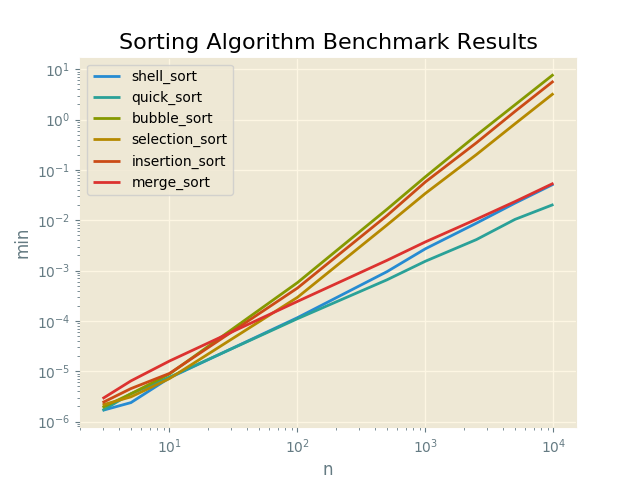
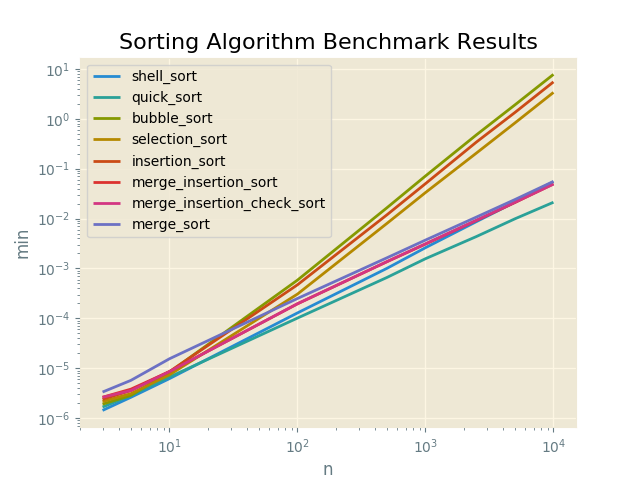
Small optimisations to merge sorts, refactored some benchmarks

diff --git a/algorithms/sort/merge_sort.py b/algorithms/sort/merge_sort.py
@@ -1,10 +1,46 @@
+from algorithms.sort.insertion_sort import insertion_sort
+
+
 def merge_sort(arr):
-    if len(arr) <= 1:
+    n = len(arr)
+    if n <= 1:
+        return arr
+    mid = n // 2
+
+    return merge(merge_sort(arr[:mid]), merge_sort(arr[mid:]))
+
+
+def merge_insertion_sort(arr):
+    n = len(arr)
+
+    if n <= 1:
+        return arr
+
+    if n < 15:
+        insertion_sort(arr)
         return arr
 
     mid = len(arr) // 2
 
-    return merge(merge_sort(arr[:mid]), merge_sort(arr[mid:]))
+    return merge(merge_insertion_sort(arr[:mid]), merge_insertion_sort(arr[mid:]))
+
+
+def merge_insertion_check_sort(arr):
+    n = len(arr)
+
+    if n <= 1:
+        return arr
+
+    if n <= 15:
+        insertion_sort(arr)
+        return arr
+
+    mid = len(arr) // 2
+
+    left = merge_insertion_sort(arr[:mid])
+    right = merge_insertion_sort(arr[mid:])
+
+    return merge(left, right) if left[-1] > right[0] else left + right
 
 
 def merge(left, right):
@@ -18,9 +54,8 @@ def merge(left, right):
 
 
 if __name__ == '__main__':
-    from script_benchmark_tools import Script
+    from script_benchmark_tools import Script, run_scripts_with_n_sized_list
     from script_benchmark_tools.benchmark_report import generate_benchmark_report
-    from benchmarks.run_scripts.run_scripts_with_n_random_list import run_scripts_with_n_random_list
 
     filename = 'merge_sort_algorithm'
 
@@ -28,10 +63,12 @@ if __name__ == '__main__':
         'title': 'Merge Sort Benchmark Results',
         'proof_data': [6, 3, 1, 2, 5, 4],
         'filename': filename,
-        'n_steps': [3, 5, 10, 100, 500, 1000],
-        'benchmark': run_scripts_with_n_random_list,
+        'n_steps': [3, 5, 10, 100, 500, 1000, 10000, 25000],
+        'benchmark': run_scripts_with_n_sized_list,
         'scripts': (
             Script(merge_sort, 'sarcoma'),
+            Script(merge_insertion_sort, 'sarcoma'),
+            Script(merge_insertion_check_sort, 'sarcoma'),
         ),
         'use_ansi': True
     }

diff --git a/benchmarks/sorts/benchmark_sorts.py b/benchmarks/sorts/benchmark_sorts.py
@@ -3,7 +3,7 @@ from script_benchmark_tools.script import Script
 
 from algorithms.sort.bubble_sort import bubble_sort
 from algorithms.sort.insertion_sort import insertion_sort
-from algorithms.sort.merge_sort import merge_sort
+from algorithms.sort.merge_sort import merge_sort, merge_insertion_sort, merge_insertion_check_sort
 from algorithms.sort.quick_sort import quick_sort
 from algorithms.sort.selection_sort import selection_sort
 from algorithms.sort.shell_sort import shell_sort
@@ -16,8 +16,8 @@ if __name__ == '__main__':
     benchmark_data = {
         'title': 'Sorting Algorithm Benchmark Results',
         'proof_data': [6, 3, 1, 2, 5, 4],
-        'filename': 'sorting_algorithm_quick',
-        'n_steps': n_steps_quick,
+        'filename': 'sorting_algorithm',
+        'n_steps': n_steps_full,
         'benchmark': run_scripts_with_n_random_list,
         'scripts': (
             Script(bubble_sort, 'sarcoma'),
@@ -25,6 +25,8 @@ if __name__ == '__main__':
             Script(insertion_sort, 'sarcoma'),
             Script(shell_sort, 'sarcoma'),
             Script(merge_sort, 'sarcoma'),
+            Script(merge_insertion_sort, 'sarcoma'),
+            Script(merge_insertion_check_sort, 'sarcoma'),
             Script(quick_sort, 'sarcoma'),
         )
     }

diff --git a/algorithms/sort/insertion_sort.py b/algorithms/sort/insertion_sort.py
@@ -1,5 +1,6 @@
 def insertion_sort(arr):
-    for i in range(len(arr)):
+    n = len(arr)
+    for i in range(n):
         for j in reversed(range(i + 1)):
             if j is 0 or arr[j-1] < arr[j]:
                 break

diff --git a/benchmarks/sorts/results/sorting_algorithm.md b/benchmarks/sorts/results/sorting_algorithm.md
@@ -3,14 +3,16 @@
 Proofs
 ------
 
-|  Input               |  Output              |  Script          |  User     |
-|----------------------|----------------------|------------------|-----------|
-|  [6, 3, 1, 2, 5, 4]  |  [1, 2, 3, 4, 5, 6]  |  bubble_sort     |  sarcoma  |
-|  [6, 3, 1, 2, 5, 4]  |  [1, 2, 3, 4, 5, 6]  |  selection_sort  |  sarcoma  |
-|  [6, 3, 1, 2, 5, 4]  |  [1, 2, 3, 4, 5, 6]  |  insertion_sort  |  sarcoma  |
-|  [6, 3, 1, 2, 5, 4]  |  [1, 2, 3, 4, 5, 6]  |  shell_sort      |  sarcoma  |
-|  [6, 3, 1, 2, 5, 4]  |  [1, 2, 3, 4, 5, 6]  |  merge_sort      |  sarcoma  |
-|  [6, 3, 1, 2, 5, 4]  |  [1, 2, 3, 4, 5, 6]  |  quick_sort      |  sarcoma  |
+|  Input               |  Output              |  Script                      |  User     |
+|----------------------|----------------------|------------------------------|-----------|
+|  [6, 3, 1, 2, 5, 4]  |  [1, 2, 3, 4, 5, 6]  |  bubble_sort                 |  sarcoma  |
+|  [6, 3, 1, 2, 5, 4]  |  [1, 2, 3, 4, 5, 6]  |  selection_sort              |  sarcoma  |
+|  [6, 3, 1, 2, 5, 4]  |  [1, 2, 3, 4, 5, 6]  |  insertion_sort              |  sarcoma  |
+|  [6, 3, 1, 2, 5, 4]  |  [1, 2, 3, 4, 5, 6]  |  shell_sort                  |  sarcoma  |
+|  [6, 3, 1, 2, 5, 4]  |  [1, 2, 3, 4, 5, 6]  |  merge_sort                  |  sarcoma  |
+|  [6, 3, 1, 2, 5, 4]  |  [1, 2, 3, 4, 5, 6]  |  merge_insertion_sort        |  sarcoma  |
+|  [6, 3, 1, 2, 5, 4]  |  [1, 2, 3, 4, 5, 6]  |  merge_insertion_check_sort  |  sarcoma  |
+|  [6, 3, 1, 2, 5, 4]  |  [1, 2, 3, 4, 5, 6]  |  quick_sort                  |  sarcoma  |
 
 Plots
 -----
@@ -23,108 +25,126 @@ Sorting Algorithm Benchmark Results
 N = 3
 ------
 
-|  min          |  avg          |  max          |  func            |  name     |
-|---------------|---------------|---------------|------------------|-----------|
-|  0.000001669  |  0.000001938  |  0.000005007  |  shell_sort      |  sarcoma  |
-|  0.000001669  |  0.000002413  |  0.000006914  |  quick_sort      |  sarcoma  |
-|  0.000001907  |  0.000002153  |  0.000005245  |  bubble_sort     |  sarcoma  |
-|  0.000002146  |  0.000002425  |  0.000004292  |  selection_sort  |  sarcoma  |
-|  0.000002384  |  0.000002728  |  0.000005245  |  insertion_sort  |  sarcoma  |
-|  0.000002861  |  0.000003297  |  0.000006437  |  merge_sort      |  sarcoma  |
+|  min          |  avg          |  max          |  func                        |  name     |
+|---------------|---------------|---------------|------------------------------|-----------|
+|  0.000001431  |  0.000001957  |  0.000014782  |  shell_sort                  |  sarcoma  |
+|  0.000001669  |  0.000002110  |  0.000009775  |  quick_sort                  |  sarcoma  |
+|  0.000001907  |  0.000002182  |  0.000004530  |  bubble_sort                 |  sarcoma  |
+|  0.000002146  |  0.000002434  |  0.000004053  |  selection_sort              |  sarcoma  |
+|  0.000002384  |  0.000002854  |  0.000004530  |  insertion_sort              |  sarcoma  |
+|  0.000002623  |  0.000003035  |  0.000004292  |  merge_insertion_sort        |  sarcoma  |
+|  0.000002623  |  0.000003033  |  0.000003338  |  merge_insertion_check_sort  |  sarcoma  |
+|  0.000003338  |  0.000003691  |  0.000006914  |  merge_sort                  |  sarcoma  |
 
 N = 5
 ------
 
-|  min          |  avg          |  max          |  func            |  name     |
-|---------------|---------------|---------------|------------------|-----------|
-|  0.000002384  |  0.000002911  |  0.000007153  |  shell_sort      |  sarcoma  |
-|  0.000003099  |  0.000003572  |  0.000006676  |  selection_sort  |  sarcoma  |
-|  0.000003576  |  0.000003915  |  0.000006914  |  bubble_sort     |  sarcoma  |
-|  0.000003576  |  0.000004017  |  0.000007391  |  quick_sort      |  sarcoma  |
-|  0.000004530  |  0.000004721  |  0.000007629  |  insertion_sort  |  sarcoma  |
-|  0.000006437  |  0.000007055  |  0.000013113  |  merge_sort      |  sarcoma  |
+|  min          |  avg          |  max          |  func                        |  name     |
+|---------------|---------------|---------------|------------------------------|-----------|
+|  0.000002623  |  0.000003018  |  0.000005722  |  shell_sort                  |  sarcoma  |
+|  0.000002861  |  0.000003366  |  0.000005484  |  bubble_sort                 |  sarcoma  |
+|  0.000002861  |  0.000003273  |  0.000006199  |  quick_sort                  |  sarcoma  |
+|  0.000003099  |  0.000003760  |  0.000010490  |  selection_sort              |  sarcoma  |
+|  0.000003576  |  0.000003743  |  0.000005484  |  insertion_sort              |  sarcoma  |
+|  0.000003576  |  0.000004015  |  0.000006914  |  merge_insertion_check_sort  |  sarcoma  |
+|  0.000003815  |  0.000004086  |  0.000016928  |  merge_insertion_sort        |  sarcoma  |
+|  0.000005722  |  0.000006306  |  0.000010490  |  merge_sort                  |  sarcoma  |
 
 N = 10
 ------
 
-|  min          |  avg          |  max          |  func            |  name     |
-|---------------|---------------|---------------|------------------|-----------|
-|  0.000007153  |  0.000007412  |  0.000009298  |  selection_sort  |  sarcoma  |
-|  0.000007391  |  0.000007901  |  0.000011921  |  shell_sort      |  sarcoma  |
-|  0.000007629  |  0.000008340  |  0.000016212  |  quick_sort      |  sarcoma  |
-|  0.000008821  |  0.000009184  |  0.000017405  |  bubble_sort     |  sarcoma  |
-|  0.000009060  |  0.000009651  |  0.000015974  |  insertion_sort  |  sarcoma  |
-|  0.000015974  |  0.000016654  |  0.000025988  |  merge_sort      |  sarcoma  |
+|  min          |  avg          |  max          |  func                        |  name     |
+|---------------|---------------|---------------|------------------------------|-----------|
+|  0.000006199  |  0.000006495  |  0.000009537  |  shell_sort                  |  sarcoma  |
+|  0.000006676  |  0.000007224  |  0.000013590  |  quick_sort                  |  sarcoma  |
+|  0.000007391  |  0.000007570  |  0.000010967  |  selection_sort              |  sarcoma  |
+|  0.000008345  |  0.000009017  |  0.000021935  |  bubble_sort                 |  sarcoma  |
+|  0.000008583  |  0.000008938  |  0.000010967  |  insertion_sort              |  sarcoma  |
+|  0.000008583  |  0.000009367  |  0.000021458  |  merge_insertion_sort        |  sarcoma  |
+|  0.000008583  |  0.000009191  |  0.000017881  |  merge_insertion_check_sort  |  sarcoma  |
+|  0.000015497  |  0.000016561  |  0.000035048  |  merge_sort                  |  sarcoma  |
 
 N = 100
 ------
 
-|  min          |  avg          |  max          |  func            |  name     |
-|---------------|---------------|---------------|------------------|-----------|
-|  0.000110865  |  0.000119431  |  0.000174761  |  quick_sort      |  sarcoma  |
-|  0.000116110  |  0.000125337  |  0.000185013  |  shell_sort      |  sarcoma  |
-|  0.000244379  |  0.000261383  |  0.000304937  |  merge_sort      |  sarcoma  |
-|  0.000294447  |  0.000319088  |  0.000389814  |  selection_sort  |  sarcoma  |
-|  0.000450373  |  0.000485060  |  0.000576258  |  insertion_sort  |  sarcoma  |
-|  0.000577450  |  0.000634532  |  0.000865459  |  bubble_sort     |  sarcoma  |
+|  min          |  avg          |  max          |  func                        |  name     |
+|---------------|---------------|---------------|------------------------------|-----------|
+|  0.000101328  |  0.000107861  |  0.000167131  |  quick_sort                  |  sarcoma  |
+|  0.000128508  |  0.000140774  |  0.000406265  |  shell_sort                  |  sarcoma  |
+|  0.000195503  |  0.000212297  |  0.000286102  |  merge_insertion_sort        |  sarcoma  |
+|  0.000196457  |  0.000212429  |  0.000303745  |  merge_insertion_check_sort  |  sarcoma  |
+|  0.000250101  |  0.000272260  |  0.000360489  |  merge_sort                  |  sarcoma  |
+|  0.000306368  |  0.000329299  |  0.000427246  |  selection_sort              |  sarcoma  |
+|  0.000470400  |  0.000508261  |  0.000666857  |  insertion_sort              |  sarcoma  |
+|  0.000583649  |  0.000645602  |  0.000810146  |  bubble_sort                 |  sarcoma  |
 
 N = 500
 ------
 
-|  min          |  avg          |  max          |  func            |  name     |
-|---------------|---------------|---------------|------------------|-----------|
-|  0.000655651  |  0.000711875  |  0.001155615  |  quick_sort      |  sarcoma  |
-|  0.000952005  |  0.001056120  |  0.001532793  |  shell_sort      |  sarcoma  |
-|  0.001597404  |  0.001734354  |  0.002096891  |  merge_sort      |  sarcoma  |
-|  0.008034945  |  0.008621147  |  0.012875319  |  selection_sort  |  sarcoma  |
-|  0.012389183  |  0.013032563  |  0.015597582  |  insertion_sort  |  sarcoma  |
-|  0.016521931  |  0.018207552  |  0.034789562  |  bubble_sort     |  sarcoma  |
+|  min          |  avg          |  max          |  func                        |  name     |
+|---------------|---------------|---------------|------------------------------|-----------|
+|  0.000659466  |  0.000699079  |  0.000965118  |  quick_sort                  |  sarcoma  |
+|  0.001005173  |  0.001071198  |  0.001304150  |  shell_sort                  |  sarcoma  |
+|  0.001365423  |  0.001458943  |  0.001746178  |  merge_insertion_sort        |  sarcoma  |
+|  0.001368046  |  0.001457105  |  0.001673222  |  merge_insertion_check_sort  |  sarcoma  |
+|  0.001634121  |  0.001733756  |  0.002005577  |  merge_sort                  |  sarcoma  |
+|  0.007990599  |  0.008281722  |  0.008694410  |  selection_sort              |  sarcoma  |
+|  0.011875153  |  0.012260177  |  0.015305042  |  insertion_sort              |  sarcoma  |
+|  0.016452074  |  0.017170999  |  0.020588636  |  bubble_sort                 |  sarcoma  |
 
 N = 1000
 ------
 
-|  min          |  avg          |  max          |  func            |  name     |
-|---------------|---------------|---------------|------------------|-----------|
-|  0.001538992  |  0.001723533  |  0.003472090  |  quick_sort      |  sarcoma  |
-|  0.002719641  |  0.003092022  |  0.004201889  |  shell_sort      |  sarcoma  |
-|  0.003723145  |  0.004517827  |  0.008661985  |  merge_sort      |  sarcoma  |
-|  0.034315348  |  0.038064208  |  0.055979252  |  selection_sort  |  sarcoma  |
-|  0.057957411  |  0.065215156  |  0.105624676  |  insertion_sort  |  sarcoma  |
-|  0.073320627  |  0.089120779  |  0.157334805  |  bubble_sort     |  sarcoma  |
+|  min          |  avg          |  max          |  func                        |  name     |
+|---------------|---------------|---------------|------------------------------|-----------|
+|  0.001566648  |  0.001646795  |  0.001909256  |  quick_sort                  |  sarcoma  |
+|  0.002605915  |  0.002765696  |  0.003200769  |  shell_sort                  |  sarcoma  |
+|  0.003079653  |  0.003249190  |  0.005274057  |  merge_insertion_sort        |  sarcoma  |
+|  0.003110409  |  0.003246021  |  0.003476143  |  merge_insertion_check_sort  |  sarcoma  |
+|  0.003700972  |  0.003820024  |  0.004132986  |  merge_sort                  |  sarcoma  |
+|  0.033157349  |  0.034010353  |  0.056026697  |  selection_sort              |  sarcoma  |
+|  0.050005436  |  0.052743943  |  0.076886415  |  insertion_sort              |  sarcoma  |
+|  0.071234226  |  0.074239602  |  0.077119112  |  bubble_sort                 |  sarcoma  |
 
 N = 2500
 ------
 
-|  min          |  avg          |  max          |  func            |  name     |
-|---------------|---------------|---------------|------------------|-----------|
-|  0.004133940  |  0.004318357  |  0.004844189  |  quick_sort      |  sarcoma  |
-|  0.008759737  |  0.009724774  |  0.025431395  |  shell_sort      |  sarcoma  |
-|  0.010487080  |  0.011235304  |  0.015406609  |  merge_sort      |  sarcoma  |
-|  0.202010870  |  0.216549718  |  0.276953697  |  selection_sort  |  sarcoma  |
-|  0.346317291  |  0.394608953  |  0.509736776  |  insertion_sort  |  sarcoma  |
-|  0.488311291  |  0.517033122  |  0.629794121  |  bubble_sort     |  sarcoma  |
+|  min          |  avg          |  max          |  func                        |  name     |
+|---------------|---------------|---------------|------------------------------|-----------|
+|  0.004360676  |  0.004576221  |  0.008453608  |  quick_sort                  |  sarcoma  |
+|  0.008671045  |  0.008926916  |  0.009428740  |  shell_sort                  |  sarcoma  |
+|  0.009140491  |  0.009413464  |  0.009785414  |  merge_insertion_sort        |  sarcoma  |
+|  0.009260416  |  0.009513001  |  0.009766102  |  merge_insertion_check_sort  |  sarcoma  |
+|  0.010702372  |  0.010954413  |  0.013475418  |  merge_sort                  |  sarcoma  |
+|  0.205119610  |  0.209462106  |  0.225755930  |  selection_sort              |  sarcoma  |
+|  0.340801001  |  0.356897752  |  0.372287750  |  insertion_sort              |  sarcoma  |
+|  0.475185633  |  0.499745891  |  0.514403343  |  bubble_sort                 |  sarcoma  |
 
 N = 5000
 ------
 
-|  min          |  avg          |  max          |  func            |  name     |
-|---------------|---------------|---------------|------------------|-----------|
-|  0.010404110  |  0.010700243  |  0.011606455  |  quick_sort      |  sarcoma  |
-|  0.021901369  |  0.022791302  |  0.023995876  |  shell_sort      |  sarcoma  |
-|  0.023476839  |  0.023922219  |  0.027111769  |  merge_sort      |  sarcoma  |
-|  0.824283838  |  0.920212436  |  1.236751556  |  selection_sort  |  sarcoma  |
-|  1.451464653  |  1.645791409  |  3.186770201  |  insertion_sort  |  sarcoma  |
-|  1.964093685  |  2.257820637  |  3.027920008  |  bubble_sort     |  sarcoma  |
+|  min          |  avg          |  max          |  func                        |  name     |
+|---------------|---------------|---------------|------------------------------|-----------|
+|  0.009876013  |  0.010153601  |  0.010558844  |  quick_sort                  |  sarcoma  |
+|  0.020946503  |  0.021475506  |  0.024542570  |  merge_insertion_sort        |  sarcoma  |
+|  0.021167994  |  0.021542397  |  0.024176121  |  merge_insertion_check_sort  |  sarcoma  |
+|  0.021318436  |  0.021979239  |  0.025017977  |  shell_sort                  |  sarcoma  |
+|  0.024021149  |  0.024468758  |  0.025480747  |  merge_sort                  |  sarcoma  |
+|  0.823639870  |  0.839642208  |  0.872511864  |  selection_sort              |  sarcoma  |
+|  1.335033655  |  1.392476702  |  1.420029163  |  insertion_sort              |  sarcoma  |
+|  1.895718575  |  2.007370532  |  2.057370424  |  bubble_sort                 |  sarcoma  |
 
 N = 10000
 ------
 
-|  min          |  avg          |  max          |  func            |  name     |
-|---------------|---------------|---------------|------------------|-----------|
-|  0.020606041  |  0.021024837  |  0.026438475  |  quick_sort      |  sarcoma  |
-|  0.052197218  |  0.053672378  |  0.054457664  |  shell_sort      |  sarcoma  |
-|  0.054399490  |  0.055107834  |  0.055866003  |  merge_sort      |  sarcoma  |
-|  3.315226316  |  3.418290639  |  3.974221468  |  selection_sort  |  sarcoma  |
-|  5.835578680  |  5.990356076  |  6.493777752  |  insertion_sort  |  sarcoma  |
-|  7.918473005  |  8.561869049  |  9.677022934  |  bubble_sort     |  sarcoma  |
+|  min          |  avg          |  max          |  func                        |  name     |
+|---------------|---------------|---------------|------------------------------|-----------|
+|  0.021198273  |  0.021772189  |  0.024307728  |  quick_sort                  |  sarcoma  |
+|  0.049018860  |  0.050696759  |  0.065692186  |  merge_insertion_check_sort  |  sarcoma  |
+|  0.049438000  |  0.050072007  |  0.053002596  |  merge_insertion_sort        |  sarcoma  |
+|  0.054790735  |  0.056559711  |  0.060705900  |  shell_sort                  |  sarcoma  |
+|  0.055468082  |  0.056586108  |  0.060607910  |  merge_sort                  |  sarcoma  |
+|  3.369047880  |  3.437402599  |  3.489730835  |  selection_sort              |  sarcoma  |
+|  5.473222733  |  5.706358535  |  5.786095142  |  insertion_sort              |  sarcoma  |
+|  7.739176512  |  8.185720866  |  8.328400850  |  bubble_sort                 |  sarcoma  |
 
